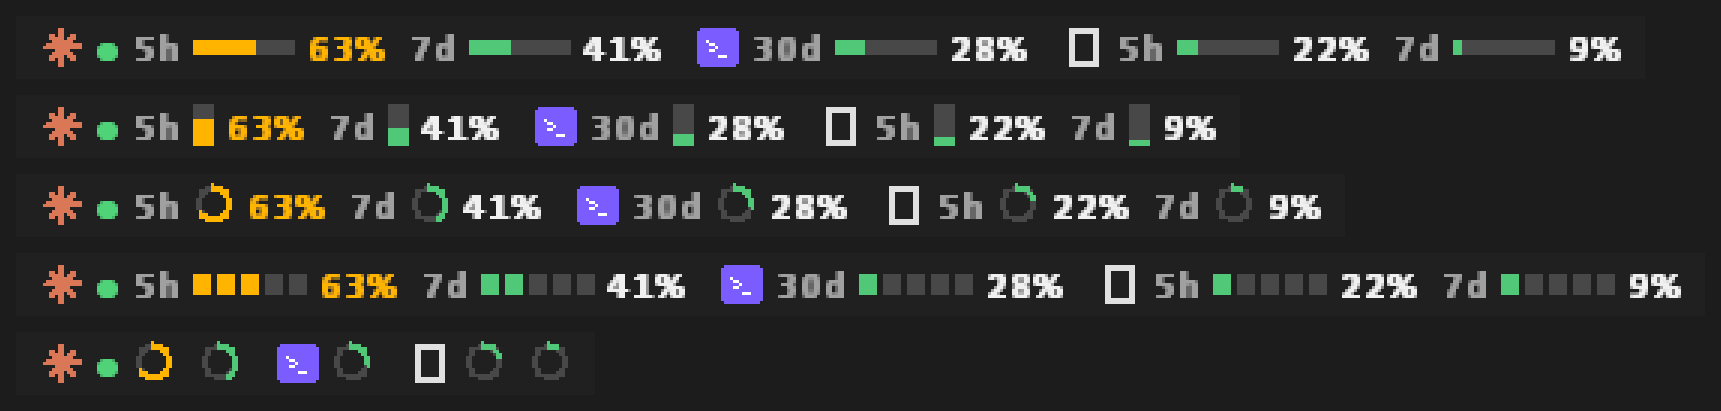
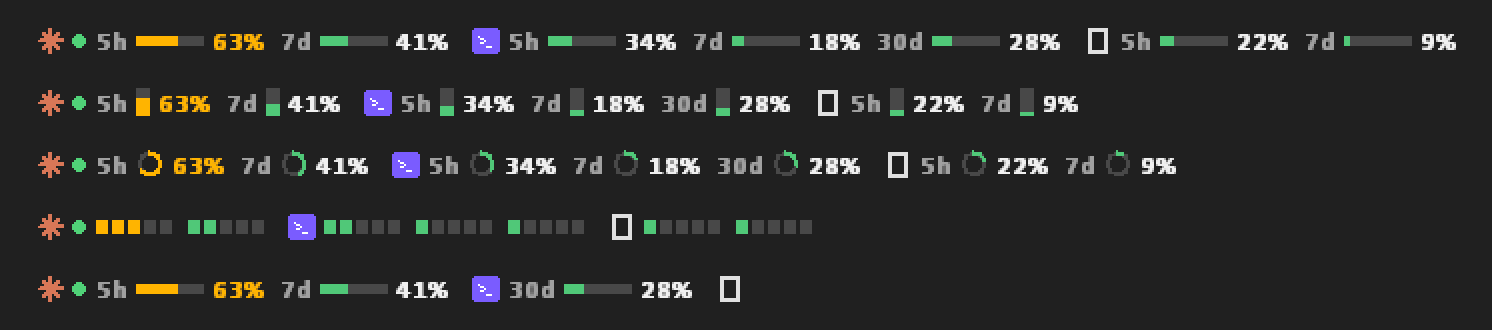
Atividade em ponto (grande ou pequeno), configurações compactas e demo mais completa
- Indicador de atividade: ponto verde redondo desenhado (grande, padrão) ou pequeno;
  configs antigas com activity_style = "ring" passam a usar o ponto.
- Janela de configurações ~20% menor: "Posição" na coluna direita e botão Fechar
  logo abaixo do último grupo; opção "Atividade" com "Ponto grande" / "Ponto pequeno".
- Demo: Codex com 5h, 7d e 30d; `--demo --free` mostra o plano gratuito
  (Codex só 30d, OpenCode só o ícone). Imagens do README regeneradas.
- Ícones dos provedores exportados em docs/images/provider-icons.

diff --git a/crates/ui/src/win/settings.rs b/crates/ui/src/win/settings.rs
@@ -1,4 +1,4 @@
-//! Janela de configurações (controles nativos do Windows). Cada controle reaproveita o ID de
+//! Janela de configurações (controles nativos do Windows). Cada controle reaproveita o ID de
 //! comando do menu: o clique vira um WM_COMMAND para a janela do widget, que aplica e salva.
 use super::*;
 
@@ -9,7 +9,7 @@ const ID_CLOSE: usize = 999;
 const TIMER_SYNC: usize = 3;
 
 /// Comboboxes: o ID do controle é a base do comando; o item escolhido soma ao ID.
-const COMBOS: [usize; 8] = [ID_BARSTYLE, ID_DISPLAY, ID_LABELS, ID_FONT, ID_ANCHOR, ID_MONITOR, ID_THRESH, ID_CHATWIN];
+const COMBOS: [usize; 9] = [ID_ACTSTYLE, ID_BARSTYLE, ID_DISPLAY, ID_LABELS, ID_FONT, ID_ANCHOR, ID_MONITOR, ID_THRESH, ID_CHATWIN];
 
 unsafe fn mk(parent: HWND, class: PCWSTR, text: &str, style: u32, r: (i32, i32, i32, i32), id: usize) -> HWND {
     let hinst = GetModuleHandleW(None).unwrap_or_default();
@@ -60,7 +60,7 @@ pub(super) unsafe fn open(tile: HWND) {
         CLIP_DEFAULT_PRECIS.0 as u32, CLEARTYPE_QUALITY.0 as u32, 0, w!("Segoe UI"));
     SET_FONT.store(f.0 as isize, Ordering::Relaxed);
 
-    let (cw, ch) = (scale(648), scale(684));
+    let (cw, ch) = (scale(648), scale(578));
     let mut rc = RECT { left: 0, top: 0, right: cw, bottom: ch };
     let style = WS_OVERLAPPED | WS_CAPTION | WS_SYSMENU | WS_MINIMIZEBOX;
     let _ = AdjustWindowRectEx(&mut rc, style, false, WINDOW_EX_STYLE(0));
@@ -70,77 +70,79 @@ pub(super) unsafe fn open(tile: HWND) {
         ((sw - ww) / 2).max(0), ((sh - wh) / 2).max(0), ww, wh, None, None, hinst, None) else { return };
     SET_HWND.store(h.0 as isize, Ordering::Relaxed);
 
-    // Coluna esquerda: aparência, posição, alertas.
+    // Coluna esquerda: aparência e alertas.
     let (lx, lw) = (12, 300);
-    group(h, "Aparência", lx, 8, lw, 290);
-    label(h, "Exibição", lx + 12, 28, 90);
-    combo(h, lx + 110, 28, 176, ID_DISPLAY, &["Número", "Gráfico", "Gráfico + número"]);
-    label(h, "Gráfico", lx + 12, 58, 90);
-    combo(h, lx + 110, 58, 176, ID_BARSTYLE, &["Barra horizontal", "Barra vertical", "Círculo", "Blocos"]);
-    label(h, "Identificação", lx + 12, 88, 90);
-    combo(h, lx + 110, 88, 176, ID_LABELS, &["Ícone", "Texto (Cl / Cx)", "Nenhuma"]);
-    label(h, "Fonte", lx + 12, 118, 90);
-    let fc = combo(h, lx + 110, 118, 176, ID_FONT, &[]);
+    group(h, "Aparência", lx, 8, lw, 296);
+    label(h, "Exibição", lx + 12, 26, 90);
+    combo(h, lx + 110, 26, 176, ID_DISPLAY, &["Número", "Gráfico", "Gráfico + número"]);
+    label(h, "Gráfico", lx + 12, 54, 90);
+    combo(h, lx + 110, 54, 176, ID_BARSTYLE, &["Barra horizontal", "Barra vertical", "Círculo", "Blocos"]);
+    label(h, "Identificação", lx + 12, 82, 90);
+    combo(h, lx + 110, 82, 176, ID_LABELS, &["Ícone", "Texto (Cl / Cx)", "Nenhuma"]);
+    label(h, "Fonte", lx + 12, 110, 90);
+    let fc = combo(h, lx + 110, 110, 176, ID_FONT, &[]);
     for (i, n) in FONTS.iter().enumerate().filter(|(_, n)| font_installed(n)) {
         let idx = SendMessageW(fc, CB_ADDSTRING, WPARAM(0), LPARAM(wide0(n).as_ptr() as isize)).0;
         SendMessageW(fc, CB_SETITEMDATA, WPARAM(idx as usize), LPARAM(i as isize));
     }
-    check(h, "Fundo transparente", lx + 12, 150, 270, ID_TRANSPARENT);
-    check(h, "Mostrar rótulos (5h / 7d / 30d)", lx + 12, 174, 270, ID_TAGS);
-    check(h, "Mostrar o que resta (em vez do usado)", lx + 12, 198, 270, ID_SHOW_REMAINING);
-    check(h, "Limite de 5 horas", lx + 12, 222, 270, ID_SHOW_5H);
-    check(h, "Limite semanal", lx + 12, 246, 270, ID_SHOW_WEEK);
-    check(h, "Tarefa ativa / aguardando resposta", lx + 12, 270, 270, ID_SHOW_ACTIVITY);
+    label(h, "Atividade", lx + 12, 138, 90);
+    combo(h, lx + 110, 138, 176, ID_ACTSTYLE, &["Ponto grande", "Ponto pequeno"]);
+    check(h, "Fundo transparente", lx + 12, 170, 270, ID_TRANSPARENT);
+    check(h, "Mostrar rótulos (5h / 7d / 30d)", lx + 12, 192, 270, ID_TAGS);
+    check(h, "Mostrar o que resta (em vez do usado)", lx + 12, 214, 270, ID_SHOW_REMAINING);
+    check(h, "Limite de 5 horas", lx + 12, 236, 270, ID_SHOW_5H);
+    check(h, "Limite semanal", lx + 12, 258, 270, ID_SHOW_WEEK);
+    check(h, "Tarefa ativa / aguardando resposta", lx + 12, 280, 270, ID_SHOW_ACTIVITY);
 
-    group(h, "Posição", lx, 306, lw, 122);
-    label(h, "Na barra", lx + 12, 326, 90);
-    combo(h, lx + 110, 326, 176, ID_ANCHOR, &["Ao lado da bandeja", "Início da barra", "Centro da barra", "Livre (arrastar)"]);
-    label(h, "Monitor", lx + 12, 356, 90);
-    let mc = combo(h, lx + 110, 356, 176, ID_MONITOR, &["Automático"]);
+    group(h, "Alertas", lx, 312, lw, 216);
+    check(h, "Alertas ativados", lx + 12, 332, 270, ID_ALERT_ENABLED);
+    check(h, "Mostrar notificações do Windows", lx + 12, 354, 270, ID_ALERT_TOAST);
+    check(h, "Tocar som", lx + 12, 376, 270, ID_ALERT_SOUND);
+    check(h, "Avisar quando o limite renovar", lx + 12, 398, 270, ID_ALERT_RESET);
+    check(h, "Avisar quando a tarefa terminar", lx + 12, 420, 270, ID_ALERT_DONE);
+    check(h, "Avisar quando precisar de resposta", lx + 12, 442, 270, ID_ALERT_INPUT);
+    label(h, "Avisar acima de", lx + 12, 470, 100);
+    let labels: Vec<String> = THRESHOLD_PRESETS.iter()
+        .map(|p| p.iter().map(|t| format!("{t:.0}%")).collect::<Vec<_>>().join(" / ")).collect();
+    combo(h, lx + 110, 470, 176, ID_THRESH, &labels.iter().map(String::as_str).collect::<Vec<_>>());
+    push(h, "Testar notificação", lx + 12, 496, 150, ID_ALERT_TEST);
+
+    // Coluna direita: provedores, conta, posição, sistema.
+    let (rx, rw) = (324, 312);
+    group(h, "Provedores", rx, 8, rw, 148);
+    check(h, "Claude Code", rx + 12, 26, 285, ID_PROVIDER);
+    check(h, "Codex", rx + 12, 48, 285, ID_PROVIDER + 1);
+    check(h, "OpenCode", rx + 12, 70, 285, ID_PROVIDER + 2);
+    check(h, "Modo automático (só o que está aberto)", rx + 12, 98, 285, ID_AUTO);
+    check(h, "Ocultar o widget se nada estiver aberto", rx + 28, 120, 270, ID_AUTO_HIDE);
+
+    group(h, "Conta Claude", rx, 164, rw, 104);
+    mk(h, w!("STATIC"), "", 0, (rx + 12, 184, rw - 24, 18), ID_STATUS);
+    push(h, "Entrar (abre o navegador)", rx + 12, 206, 180, ID_CLAUDE_LOGIN);
+    push(h, "Colar código", rx + 200, 206, 100, ID_CLAUDE_PASTE);
+    push(h, "Sair da conta Claude", rx + 12, 236, 180, ID_CLAUDE_LOGOUT);
+
+    group(h, "Posição", rx, 276, rw, 116);
+    label(h, "Na barra", rx + 12, 294, 90);
+    combo(h, rx + 110, 294, 190, ID_ANCHOR, &["Ao lado da bandeja", "Início da barra", "Centro da barra", "Livre (arrastar)"]);
+    label(h, "Monitor", rx + 12, 322, 90);
+    let mc = combo(h, rx + 110, 322, 190, ID_MONITOR, &["Automático"]);
     for (i, m) in monitors().iter().enumerate() {
         let n = format!("Monitor {}{}", i + 1, if m.primary { " (principal)" } else { "" });
         SendMessageW(mc, CB_ADDSTRING, WPARAM(0), LPARAM(wide0(&n).as_ptr() as isize));
     }
-    check(h, "Travar a posição na barra", lx + 12, 392, 270, ID_LOCK);
+    check(h, "Travar a posição na barra", rx + 12, 356, 285, ID_LOCK);
 
-    group(h, "Alertas", lx, 436, lw, 238);
-    check(h, "Alertas ativados", lx + 12, 456, 270, ID_ALERT_ENABLED);
-    check(h, "Mostrar notificações do Windows", lx + 12, 480, 270, ID_ALERT_TOAST);
-    check(h, "Tocar som", lx + 12, 504, 270, ID_ALERT_SOUND);
-    check(h, "Avisar quando o limite renovar", lx + 12, 528, 270, ID_ALERT_RESET);
-    check(h, "Avisar quando a tarefa terminar", lx + 12, 552, 270, ID_ALERT_DONE);
-    check(h, "Avisar quando precisar de resposta", lx + 12, 576, 270, ID_ALERT_INPUT);
-    label(h, "Avisar acima de", lx + 12, 606, 100);
-    let labels: Vec<String> = THRESHOLD_PRESETS.iter()
-        .map(|p| p.iter().map(|t| format!("{t:.0}%")).collect::<Vec<_>>().join(" / ")).collect();
-    combo(h, lx + 110, 606, 176, ID_THRESH, &labels.iter().map(String::as_str).collect::<Vec<_>>());
-    push(h, "Testar notificação", lx + 12, 638, 150, ID_ALERT_TEST);
-
-    // Coluna direita: provedores, conta, sistema.
-    let (rx, rw) = (324, 312);
-    group(h, "Provedores", rx, 8, rw, 168);
-    check(h, "Claude Code", rx + 12, 28, 285, ID_PROVIDER);
-    check(h, "Codex", rx + 12, 52, 285, ID_PROVIDER + 1);
-    check(h, "OpenCode", rx + 12, 76, 285, ID_PROVIDER + 2);
-    check(h, "Modo automático (só o que está aberto)", rx + 12, 110, 285, ID_AUTO);
-    check(h, "Ocultar o widget se nada estiver aberto", rx + 28, 134, 270, ID_AUTO_HIDE);
-
-    group(h, "Conta Claude", rx, 184, rw, 112);
-    mk(h, w!("STATIC"), "", 0, (rx + 12, 206, rw - 24, 18), ID_STATUS);
-    push(h, "Entrar (abre o navegador)", rx + 12, 230, 180, ID_CLAUDE_LOGIN);
-    push(h, "Colar código", rx + 200, 230, 100, ID_CLAUDE_PASTE);
-    push(h, "Sair da conta Claude", rx + 12, 260, 180, ID_CLAUDE_LOGOUT);
-
-    group(h, "Sistema", rx, 304, rw, 148);
-    check(h, "Iniciar com o Windows", rx + 12, 324, 285, ID_AUTOSTART);
-    push(h, "Atualizar agora", rx + 12, 354, 140, ID_REFRESH);
-    push(h, "Abrir config.toml", rx + 160, 354, 140, ID_OPEN_CONFIG);
-    push(h, "Recarregar do arquivo", rx + 12, 386, 140, ID_RELOAD);
-    label(h, "Chats no painel: últimos", rx + 12, 422, 150);
+    group(h, "Sistema", rx, 400, rw, 128);
+    check(h, "Iniciar com o Windows", rx + 12, 418, 285, ID_AUTOSTART);
+    push(h, "Atualizar agora", rx + 12, 444, 140, ID_REFRESH);
+    push(h, "Abrir config.toml", rx + 160, 444, 140, ID_OPEN_CONFIG);
+    push(h, "Recarregar do arquivo", rx + 12, 474, 140, ID_RELOAD);
+    label(h, "Chats no painel: últimos", rx + 12, 500, 150);
     let wl: Vec<String> = CHAT_WINDOWS.iter().map(|m| crate::view::fmt_window(*m)).collect();
-    combo(h, rx + 170, 422, 120, ID_CHATWIN, &wl.iter().map(String::as_str).collect::<Vec<_>>());
+    combo(h, rx + 170, 500, 120, ID_CHATWIN, &wl.iter().map(String::as_str).collect::<Vec<_>>());
 
-    push(h, "Fechar", rx + rw - 100, 646, 100, ID_CLOSE);
+    push(h, "Fechar", rx + rw - 100, 538, 100, ID_CLOSE);
 
     apply_theme(h);
     sync(h);
@@ -178,6 +180,7 @@ unsafe fn sync(h: HWND) {
     ] { set_check(h, id, on); }
     set_sel(h, ID_DISPLAY, match u.display { DisplayMode::Number => 0, DisplayMode::Bar => 1, DisplayMode::Both => 2 });
     set_sel(h, ID_BARSTYLE, match u.bar_style { BarStyle::Horizontal => 0, BarStyle::Vertical => 1, BarStyle::Ring => 2, BarStyle::Blocks => 3 });
+    set_sel(h, ID_ACTSTYLE, if u.activity_style == ActivityStyle::SmallDot { 1 } else { 0 });
     set_sel(h, ID_LABELS, match u.labels { LabelStyle::Icon => 0, LabelStyle::Text => 1, LabelStyle::None => 2 });
     set_sel(h, ID_ANCHOR, match u.anchor { Anchor::BesideTray => 0, Anchor::TaskbarStart => 1, Anchor::TaskbarCenter => 2, Anchor::Custom => 3 });
     set_sel(h, ID_MONITOR, u.monitor as usize);

diff --git a/crates/ui/src/win.rs b/crates/ui/src/win.rs
@@ -4,7 +4,7 @@
 //! suaves e o resto é transparente, sem franjas de cor.
 use crate::layout::{offset_of, place_on_bar, place_tile, Rect};
 use crate::view::{flyout_tree, segments, should_hide, tooltip, visible_ids, FlyKind, Level, ProviderRow, Seg};
-use lq_core::config::{Anchor, BarStyle, Config, DisplayMode, LabelStyle};
+use lq_core::config::{ActivityStyle, Anchor, BarStyle, Config, DisplayMode, LabelStyle};
 use lq_core::model::ProviderId;
 use lq_core::notify::{Notification, Severity};
 use std::collections::VecDeque;
@@ -66,6 +66,7 @@ const ID_FONT: usize = 200; // +i da lista FONTS
 const FONTS: [&str; 7] = ["Segoe UI Variable Text", "Segoe UI", "Bahnschrift", "Cascadia Mono", "Consolas", "Calibri", "Trebuchet MS"];
 const ID_CHATWIN: usize = 210; // +i de CHAT_WINDOWS
 const ID_BARSTYLE: usize = 220; // +0 horizontal, +1 vertical, +2 anel, +3 blocos
+const ID_ACTSTYLE: usize = 230; // +0 ponto, +1 ponto pequeno
 const CHAT_WINDOWS: [u32; 6] = [10, 30, 60, 120, 360, 1440];
 const ID_AUTOSTART: usize = 58;
 const ID_SETTINGS: usize = 94;
@@ -501,6 +502,20 @@ unsafe fn run_items(hdc: HDC, segs: &[Seg], origin_x: i32, height: i32, draw: bo
                 if draw { draw_icon(hdc, *id, x, height / 2, icon_px(), light); }
                 x += icon_px();
             }
+            Seg::Dot(l, small) => {
+                // Círculo cheio, um pouco menor que o "●" da fonte, com um respiro à direita.
+                let d = (FONT_PX.load(Ordering::Relaxed) * if *small { 38 } else { 60 } / 100).max(if *small { 4 } else { 6 });
+                if draw {
+                    let (b, p) = (CreateSolidBrush(color(*l, light)), CreatePen(PS_SOLID, 1, color(*l, light)));
+                    let (ob, op) = (SelectObject(hdc, b), SelectObject(hdc, p));
+                    let _ = Ellipse(hdc, x, height / 2 - d / 2, x + d, height / 2 - d / 2 + d);
+                    SelectObject(hdc, ob);
+                    SelectObject(hdc, op);
+                    let _ = DeleteObject(b);
+                    let _ = DeleteObject(p);
+                }
+                x += d + scale(5);
+            }
             Seg::Bar(f, l, style) => {
                 let (gw, _) = gauge_size(*style);
                 if draw { draw_gauge(hdc, x, height, f.clamp(0.0, 1.0), bar_color(*l, light), *style, light); }
@@ -596,7 +611,8 @@ unsafe fn relayout(hwnd: HWND) {
     let _ = DeleteObject(font);
     ReleaseDC(hwnd, hdc);
 
-    let (w, h) = (content_w + 2 * scale(8), text_h.max(icon_px()) + scale(6));
+    let icon_h = icon_px();
+    let (w, h) = (content_w + 2 * scale(8), text_h.max(icon_h) + scale(6));
     let r = if cfg.ui.anchor == Anchor::Custom {
         place_on_bar(t.bar, t.tray, w, h, cfg.ui.bar_offset, scale(4), t.fallback_gap)
     } else {
@@ -903,6 +919,8 @@ unsafe fn apply_command(hwnd: HWND, id: usize) -> bool {
             ID_SHOW_WEEK => { let v = !c.claude.show_weekly; for p in c.providers_mut() { p.show_weekly = v; } }
             ID_LOCK => c.ui.locked = !c.ui.locked,
             ID_TAGS => c.ui.show_tags = !c.ui.show_tags,
+            ID_ACTSTYLE => c.ui.activity_style = ActivityStyle::Dot,
+            x if x == ID_ACTSTYLE + 1 => c.ui.activity_style = ActivityStyle::SmallDot,
             x if (ID_BARSTYLE..ID_BARSTYLE + 4).contains(&x) => c.ui.bar_style = [BarStyle::Horizontal, BarStyle::Vertical, BarStyle::Ring, BarStyle::Blocks][x - ID_BARSTYLE],
             ID_SHOW_ACTIVITY => { let v = !c.claude.show_activity; for p in c.providers_mut() { p.show_activity = v; } }
             ID_SHOW_REMAINING => c.ui.show_remaining = !c.ui.show_remaining,

diff --git a/crates/core/src/config.rs b/crates/core/src/config.rs
@@ -65,6 +65,18 @@ pub enum DisplayMode { Number, Bar, #[default] Both }
 pub enum LabelStyle { #[default] Icon, Text, /// Sem identificação do provedor (só os limites).
     None }
 
+/// Como mostrar que um agente está trabalhando / esperando você.
+#[derive(Debug, Clone, Copy, Serialize, Deserialize, PartialEq, Eq, Default)]
+#[serde(rename_all = "lowercase")]
+pub enum ActivityStyle {
+    /// Ponto verde ao lado do ícone (ou "?" quando espera você).
+    #[default]
+    #[serde(alias = "ring")] // a antiga "linha no ícone" virou ponto
+    Dot,
+    /// O mesmo ponto, menor.
+    SmallDot,
+}
+
 /// Formato do gráfico de cada limite.
 #[derive(Debug, Clone, Copy, Serialize, Deserialize, PartialEq, Eq, Default)]
 #[serde(rename_all = "lowercase")]
@@ -88,6 +100,8 @@ pub struct UiConfig {
     pub autostart: bool,
     /// Número, barra de progresso ou ambos.
     pub display: DisplayMode,
+    /// Indicador de atividade: linha ao redor do ícone ou ponto.
+    pub activity_style: ActivityStyle,
     /// Formato do gráfico (barra horizontal, vertical, círculo ou blocos).
     pub bar_style: BarStyle,
     /// Mostra os rótulos de texto dos limites (5h / 7d / 30d). Desligado: só os gráficos.
@@ -117,7 +131,7 @@ pub struct UiConfig {
 impl Default for UiConfig {
     fn default() -> Self {
         Self { compact: true, show_remaining: false, exact_reset_time: false, autostart: true,
-               display: DisplayMode::Both, bar_style: BarStyle::Horizontal, show_tags: true, labels: LabelStyle::Icon, anchor: Anchor::BesideTray,
+               display: DisplayMode::Both, bar_style: BarStyle::Horizontal, activity_style: ActivityStyle::Dot, show_tags: true, labels: LabelStyle::Icon, anchor: Anchor::BesideTray,
                monitor: 0, bar_offset: 0, transparent: true, auto_mode: true, auto_hide_when_none: true,
                locked: true, font: "Calibri".into(), chat_window_mins: 30 }
     }
@@ -220,6 +234,9 @@ mod tests {
         let c = Config::default();
         assert!(c.ui.locked && c.ui.auto_mode && c.ui.auto_hide_when_none && c.ui.show_tags);
         assert_eq!((c.ui.font.as_str(), c.ui.bar_style), ("Calibri", BarStyle::Horizontal));
+        assert_eq!(c.ui.activity_style, ActivityStyle::Dot);
+        assert_eq!(Config::from_toml("[ui]
+activity_style = \"ring\"").unwrap().ui.activity_style, ActivityStyle::Dot);
         // configs antigas (com campos removidos e sem os novos) continuam carregando
         let old = Config::from_toml("[ui]\nanchor = \"custom\"\nopencode_free_icon_only = false\nbar_style = \"ring\"\n[claude]\nshow_monthly = true").unwrap();
         assert!(old.ui.locked && old.ui.show_tags);

diff --git a/crates/ui/src/view.rs b/crates/ui/src/view.rs
@@ -1,5 +1,5 @@
 //! Converte o estado dos provedores em itens desenháveis (puro, testável sem Win32).
-use lq_core::config::{BarStyle, Config, DisplayMode, LabelStyle};
+use lq_core::config::{ActivityStyle, BarStyle, Config, DisplayMode, LabelStyle};
 use lq_core::model::{AgentDetail, AgentState, ChatInfo, MeterKind, ProviderId, Usage};
 use std::collections::HashSet;
 
@@ -11,6 +11,8 @@ pub enum Seg {
     Text(String, Level),
     /// Ícone do provedor.
     Icon(ProviderId),
+    /// Ponto redondo de "trabalhando" (desenhado, para ficar redondo em qualquer resolução).
+    Dot(Level, bool),
     /// Gráfico de progresso: preenchimento de 0.0 a 1.0, cor e formato.
     Bar(f32, Level, BarStyle),
 }
@@ -62,7 +64,7 @@ pub fn segments(rows: &[ProviderRow], cfg: &Config) -> Vec<Seg> {
         }
         if cfg.ui.labels != LabelStyle::None { out.push(text(" ", Level::Dim)); }
         match row.activity {
-            AgentState::Working if pc.show_activity => out.push(text("● ", Level::Active)),
+            AgentState::Working if pc.show_activity => out.push(Seg::Dot(Level::Active, cfg.ui.activity_style == ActivityStyle::SmallDot)),
             AgentState::NeedsInput if pc.show_activity => out.push(text("? ", Level::Attention)),
             _ => {}
         }
@@ -291,6 +293,7 @@ mod tests {
         s.iter().map(|x| match x {
             Seg::Text(t, _) => t.clone(),
             Seg::Icon(id) => format!("<{}>", label(*id)),
+            Seg::Dot(..) => "● ".to_string(),
             Seg::Bar(f, _, _) => format!("[{:.0}]", f * 100.0),
         }).collect()
     }
@@ -339,6 +342,22 @@ mod tests {
     fn no_identification_shows_only_the_limits() {
         let s = segments(&[row(42.0, 10.0)], &cfg(DisplayMode::Number, LabelStyle::None));
         assert_eq!(flat(&s), "5h 42%  7d 10%");
+    }
+
+    #[test]
+    fn activity_is_a_dot_normal_or_small_and_a_question_mark() {
+        let mut r = row(42.0, 10.0);
+        r.activity = AgentState::Working;
+        let mut c = cfg(DisplayMode::Number, LabelStyle::Icon);
+        let s = segments(&[r.clone()], &c);
+        assert_eq!(s[0], Seg::Icon(ProviderId::Codex));
+        assert!(s.contains(&Seg::Dot(Level::Active, false)));
+        c.ui.activity_style = ActivityStyle::SmallDot;
+        assert!(segments(&[r.clone()], &c).contains(&Seg::Dot(Level::Active, true)));
+        r.activity = AgentState::NeedsInput;
+        assert!(flat(&segments(&[r.clone()], &c)).contains('?'));
+        r.activity = AgentState::Idle;
+        assert!(!flat(&segments(&[r], &c)).contains('●'));
     }
 
     #[test]

diff --git a/crates/app/src/main.rs b/crates/app/src/main.rs
@@ -120,10 +120,14 @@ mod demo {
         }
     }
 
-    pub fn rows(now: i64) -> Vec<ProviderRow> {
+    /// `free`: planos gratuitos (Codex só com o limite mensal; OpenCode sem limites, só o ícone).
+    pub fn rows(now: i64, free: bool) -> Vec<ProviderRow> {
         let claude = Usage { provider: ProviderId::Claude, meters: vec![
             meter(MeterKind::FiveHour, 63.0, 5400, now), meter(MeterKind::Weekly, 41.0, 4 * 86400, now)] };
-        let codex = Usage { provider: ProviderId::Codex, meters: vec![meter(MeterKind::Monthly, 28.0, 20 * 86400, now)] };
+        // Codex com todas as janelas (5 h, semanal e mensal), para mostrar cada formato.
+        let codex = Usage { provider: ProviderId::Codex, meters: if free { vec![meter(MeterKind::Monthly, 28.0, 20 * 86400, now)] } else { vec![
+            meter(MeterKind::FiveHour, 34.0, 2 * 3600, now), meter(MeterKind::Weekly, 18.0, 3 * 86400, now),
+            meter(MeterKind::Monthly, 28.0, 20 * 86400, now)] } };
         vec![
             ProviderRow {
                 id: ProviderId::Claude, result: Ok(claude), activity: AgentState::Working, running: true, detail: None,
@@ -137,7 +141,7 @@ mod demo {
             // OpenCode com login do ChatGPT: consome os mesmos limites de 5 h e semanal.
             ProviderRow { id: ProviderId::OpenCode, activity: AgentState::Idle, running: true, detail: None, chats: vec![],
                 result: Ok(Usage { provider: ProviderId::OpenCode, meters: vec![
-                    meter(MeterKind::FiveHour, 22.0, 3 * 3600, now), meter(MeterKind::Weekly, 9.0, 5 * 86400, now)] }) },
+                    meter(MeterKind::FiveHour, 22.0, 3 * 3600, now), meter(MeterKind::Weekly, 9.0, 5 * 86400, now)].into_iter().filter(|_| !free).collect() }) },
         ]
     }
 }
@@ -151,7 +155,7 @@ fn main() {
         let path = std::env::temp_dir().join("LineQuotaDemo").join("config.toml");
         let cfg = std::fs::read_to_string(&path).ok().and_then(|s| Config::from_toml(&s).ok()).unwrap_or_default();
         let shared = Shared::new(cfg, path, std::sync::Arc::new(ClaudeAccount));
-        *shared.rows.lock().unwrap() = demo::rows(now_secs());
+        *shared.rows.lock().unwrap() = demo::rows(now_secs(), args.iter().any(|a| a == "--free"));
         let (tx, _rx) = mpsc::channel::<()>();
         let _ = win::run(shared, tx);
         return;

diff --git a/README.md b/README.md
@@ -11,7 +11,7 @@
 ![Licença](https://img.shields.io/badge/licen%C3%A7a-MIT-3FB950)
 ![Tamanho](https://img.shields.io/badge/execut%C3%A1vel-2%2C9%20MB-8957E5)
 ![Memória](https://img.shields.io/badge/mem%C3%B3ria-~21%20MB-F2CC60)
-![Testes](https://img.shields.io/badge/testes-94%20passando-3FB950)
+![Testes](https://img.shields.io/badge/testes-95%20passando-3FB950)
 
 <img src="docs/images/widget-styles.png" alt="Os quatro formatos de gráfico do widget: barra horizontal, vertical, círculo e blocos" width="720">
 
@@ -30,7 +30,7 @@ abrir, sem Electron: é um executável nativo de **2,9 MB**.
 | | |
 |---|---|
 | 📊 **Limites reais** | Janelas de 5 horas e semanal do Claude Code e do Codex/OpenCode (ChatGPT). No Codex gratuito mostra o limite **mensal**. |
-| 🟢 **O que cada agente faz** | Ponto verde quando trabalha, `?` quando espera você. Clique para abrir a árvore *Projeto → Chat → pedido atual*. |
+| 🟢 **O que cada agente faz** | Ponto verde quando trabalha, `?` quando espera você (ou, à escolha, uma linha colorida ao redor do ícone). Clique para abrir a árvore *Projeto → Chat → pedido atual*. |
 | 🔔 **Avisos úteis** | Notificações do Windows ao passar de 80/90/95%, quando o limite renova, quando uma tarefa termina ou precisa de você. |
 | 🎨 **Do seu jeito** | Barra horizontal, vertical, círculo ou blocos; com ou sem número; com ou sem rótulos; ícone, texto ou nada; fundo transparente; qualquer fonte. |
 | 🪄 **Modo automático** | Mostra só o que está aberto e some quando nada está rodando. |
@@ -74,7 +74,7 @@ Para scripts: `LineQuota-Setup.exe` abre a janela; o programa instalado aceita
 | Executável do app | **2,9 MB** (instalador: 3,2 MB, com o app dentro) |
 | Memória em uso | **~21 MB** (set de trabalho), 7 MB privados |
 | CPU parado | **~1%** de um núcleo (leitura local a cada 2 s; rede em outra thread) |
-| Código | **~6 mil linhas** de Rust em 6 crates, **94 testes** automatizados |
+| Código | **~6 mil linhas** de Rust em 6 crates, **95 testes** automatizados |
 | Dependências nativas | Win32 puro (GDI, sem frameworks de interface) |
 | Chamadas de rede | Só `api.anthropic.com` (uso do Claude) e `chatgpt.com` (uso do Codex); sem telemetria |
 
